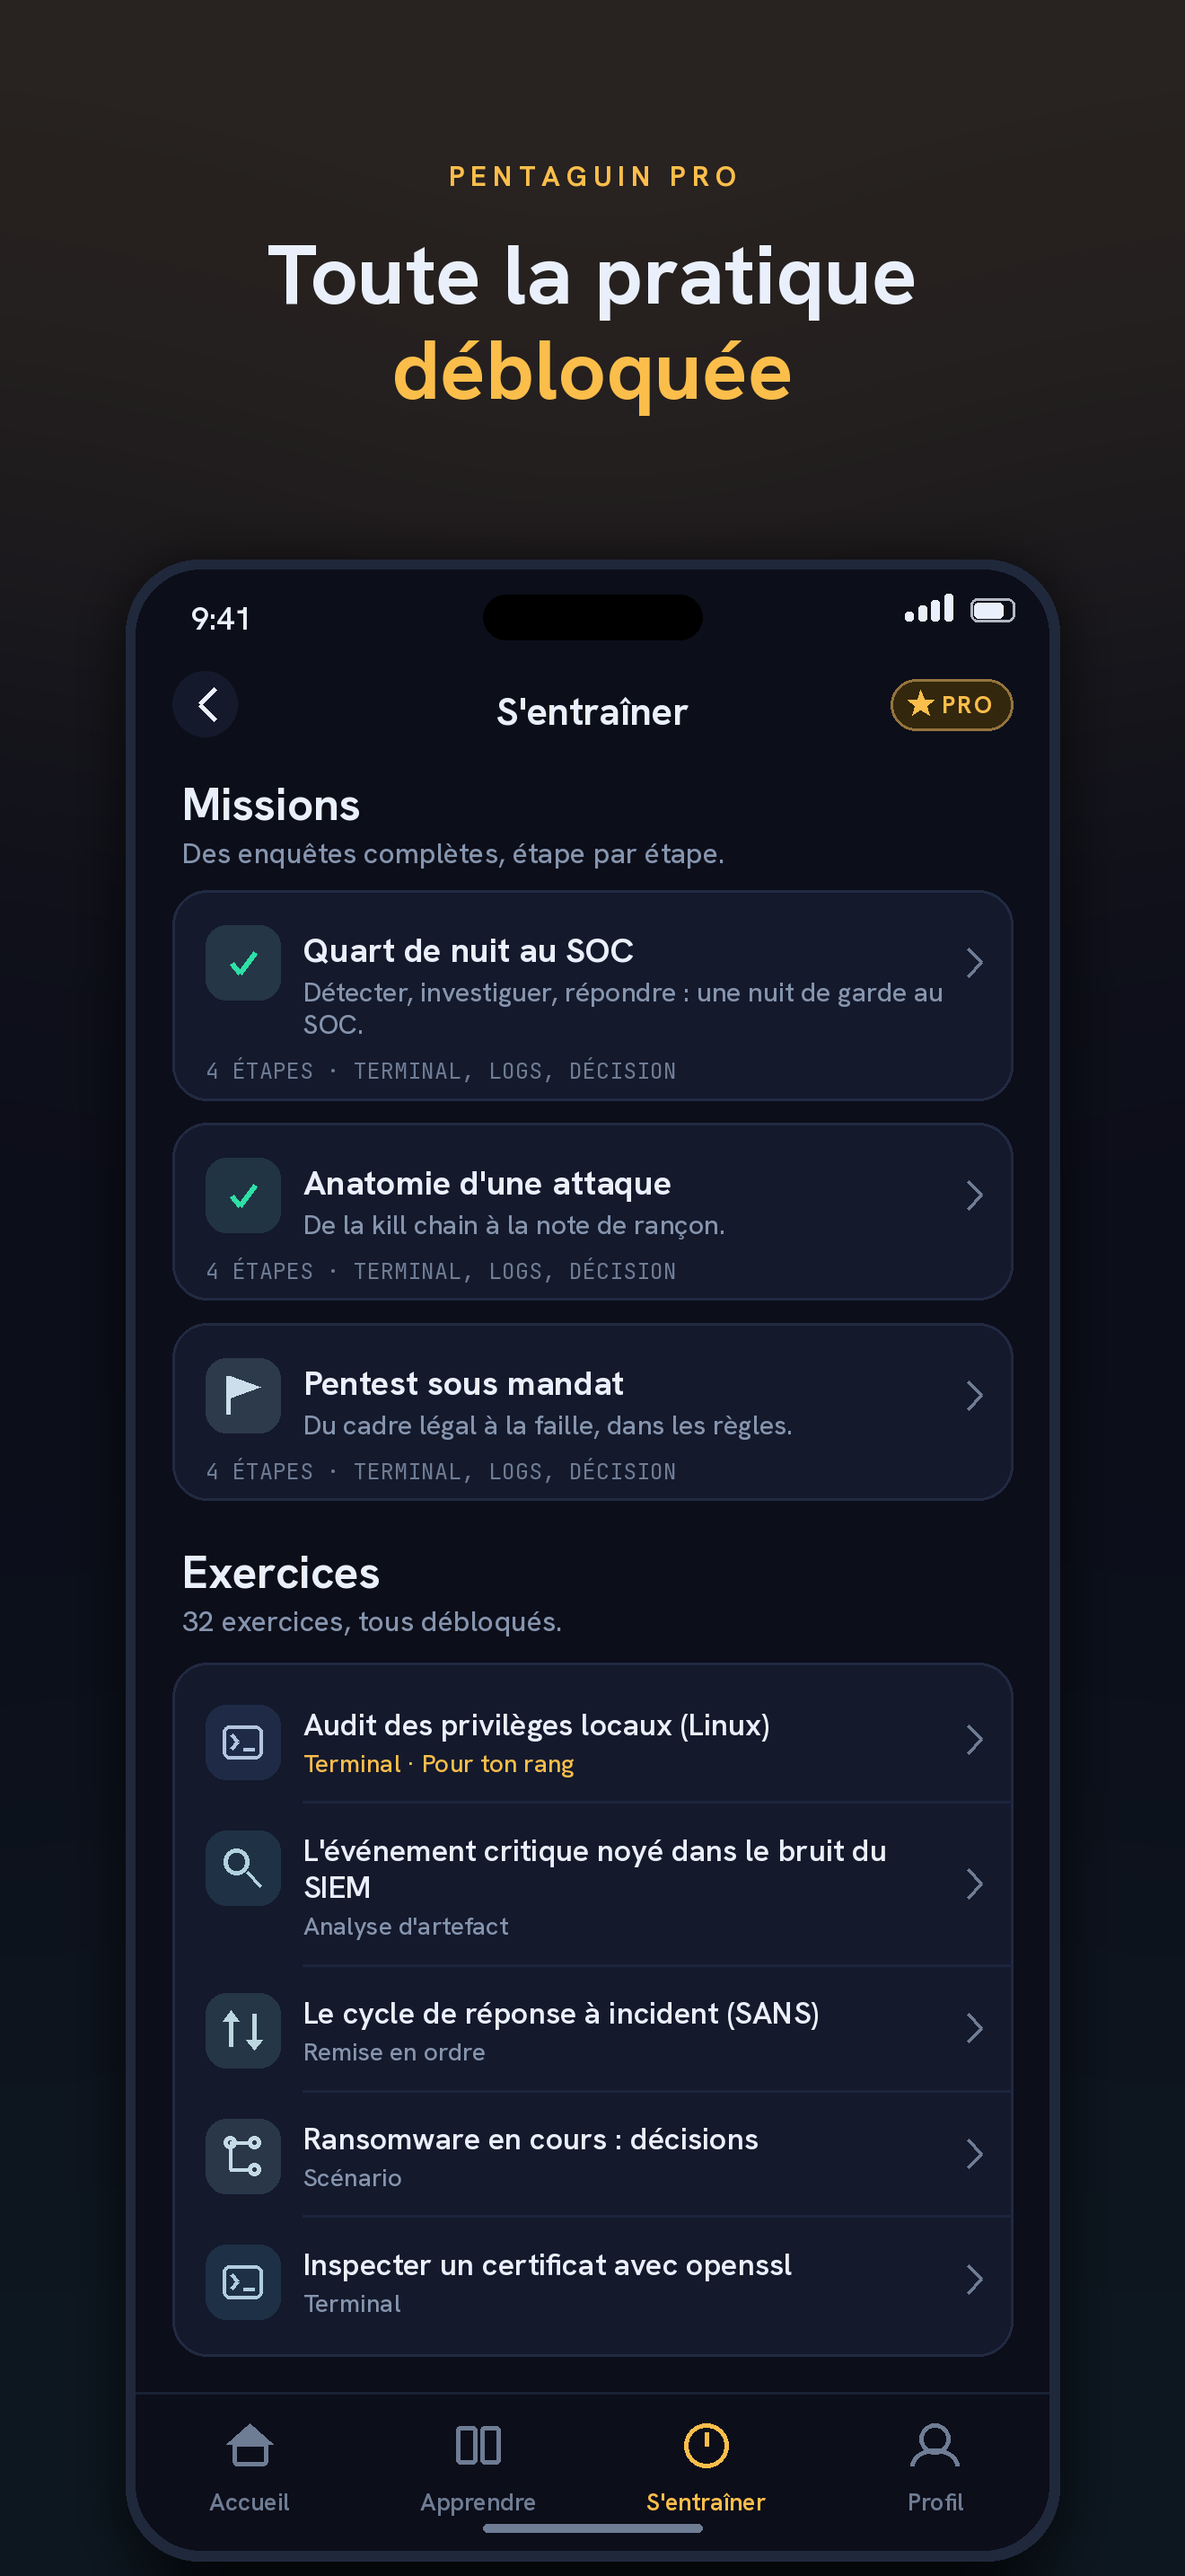
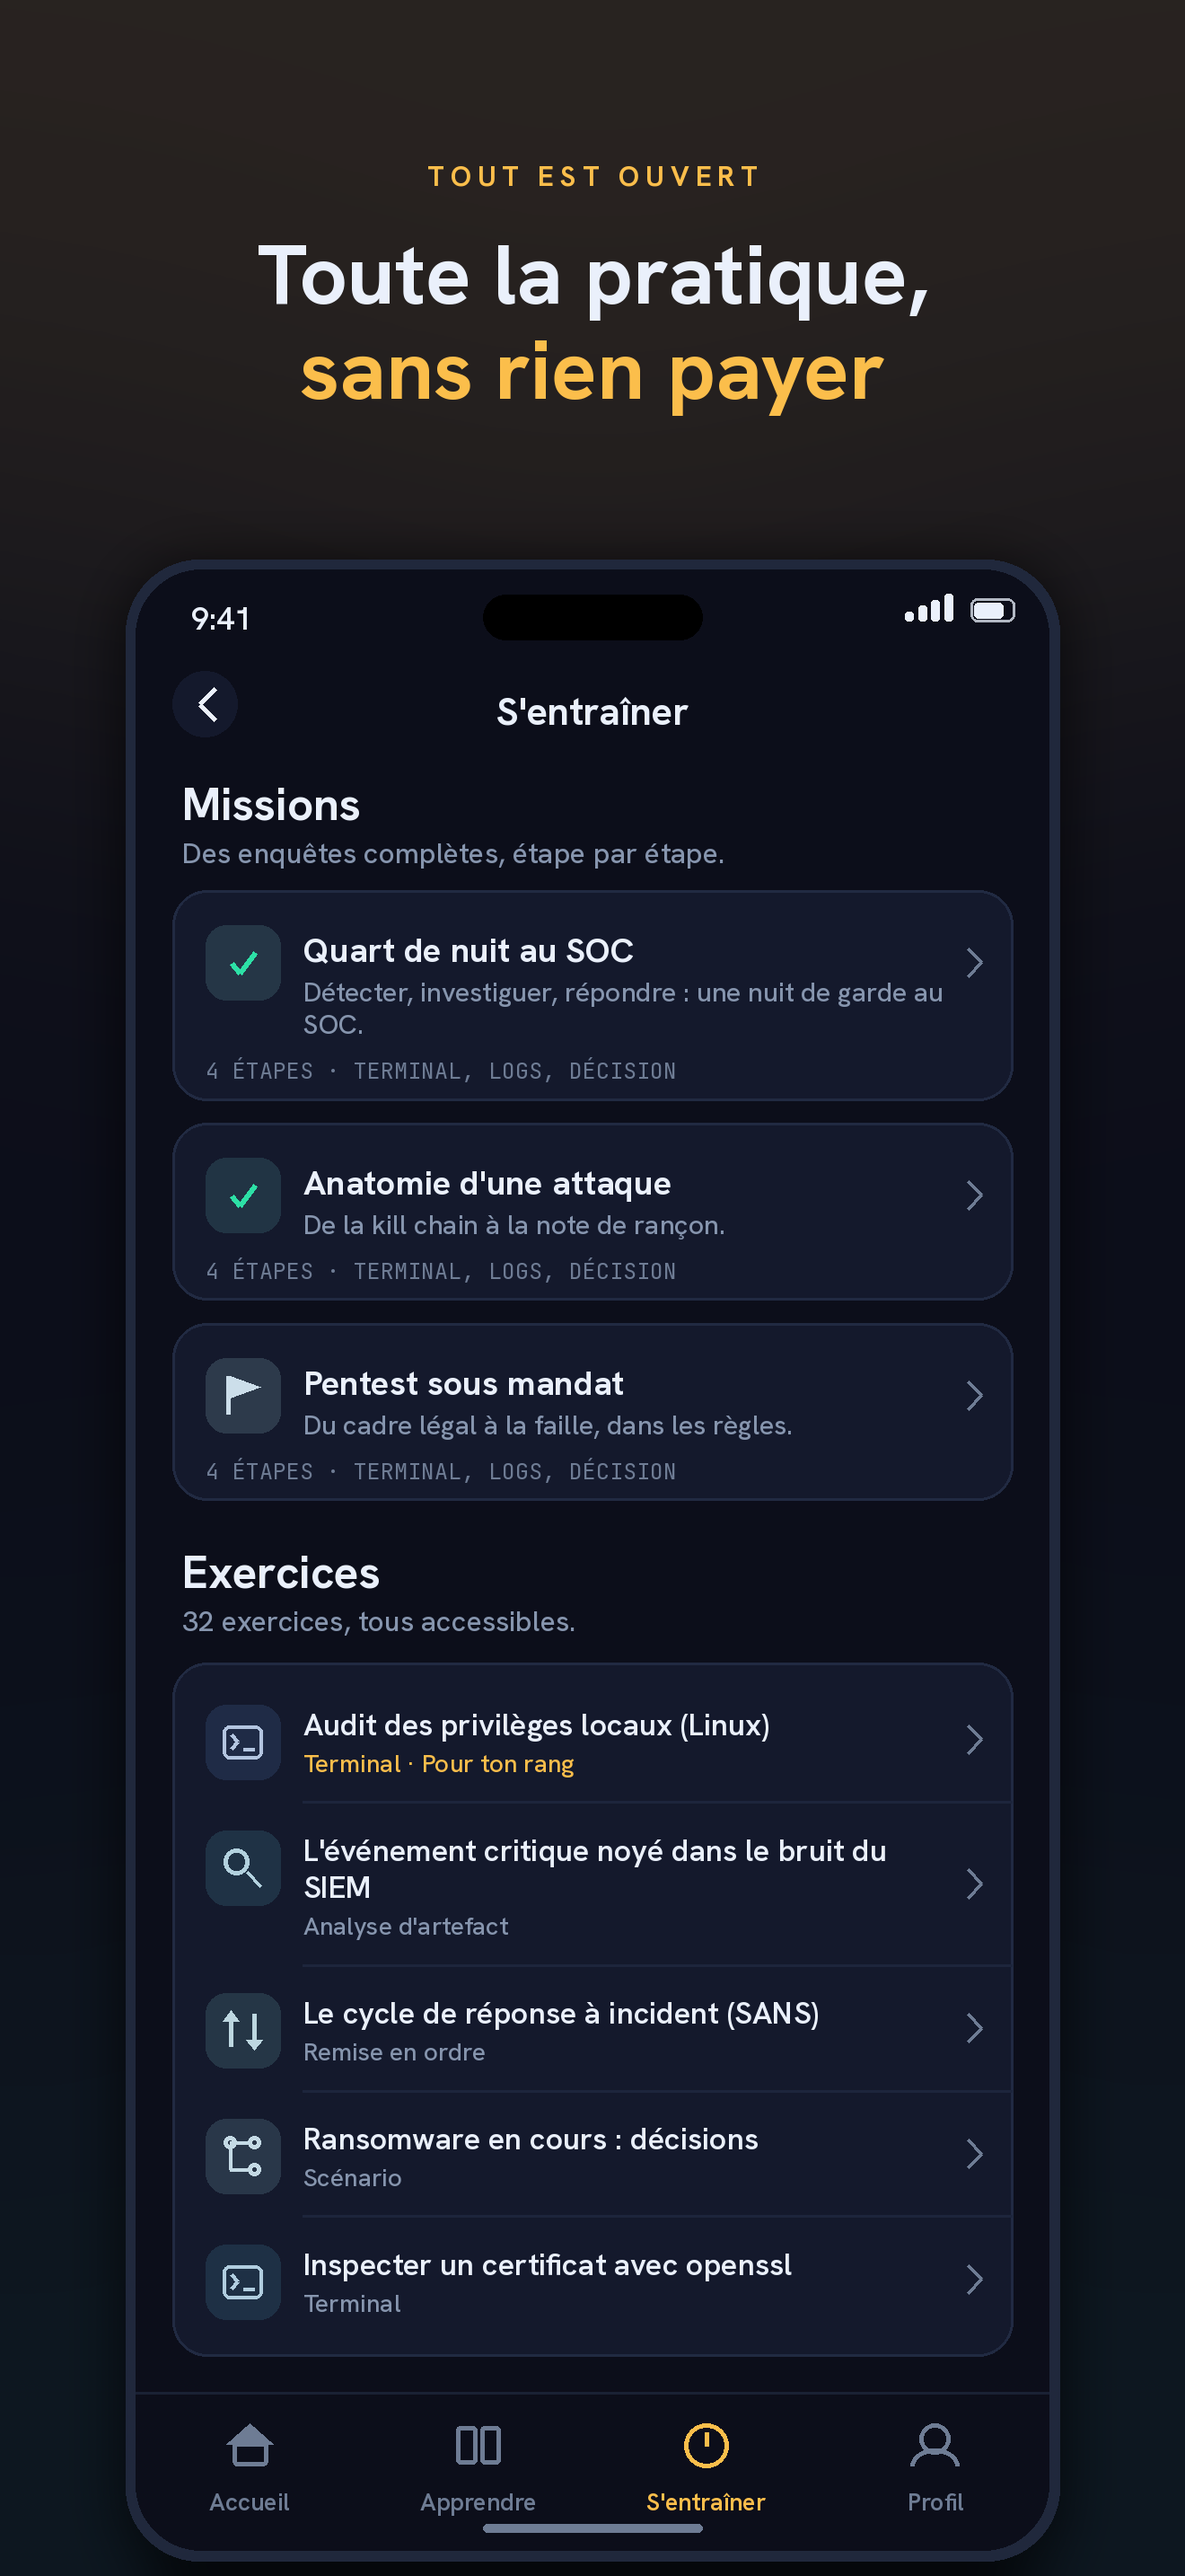
Captures : la vitrine de la pratique ne parle plus d'abonnement
L'app sortant gratuite, une capture titrée « Pentaguin Pro » avec un badge Pro
dans la barre de navigation aurait annoncé un achat intégré qui n'existe pas
(guideline 2.3.3). Elle devient « Tout est ouvert, toute la pratique sans rien
payer », sans badge, et la liste dit « tous accessibles » au lieu de
« tous débloqués ».

Changed region(s): [[0.2174, 0.0621, 0.7765, 0.1552], [0.7455, 0.2483, 0.8697, 0.3103], [0.3727, 0.6206, 0.4659, 0.6517]]

diff --git a/docs/screenshots/appstore/generate.py b/docs/screenshots/appstore/generate.py
@@ -304,7 +304,7 @@ def s_home(pen):
 
 # ============================ 2. S'ENTRAÎNER ================================
 def s_practice(pen):
-    statusbar(pen); navbar(pen, "S'entraîner", pro=True)
+    statusbar(pen); navbar(pen, "S'entraîner")
     pen.text((20, 88), "Missions", "bold", 19.5, hx("txt"))
     pen.text((20, 114), "Des enquêtes complètes, étape par étape.", "med", 12.5, hx("dim"))
     missions = [("Quart de nuit au SOC", "Détecter, investiguer, répondre : une nuit de garde au SOC.", 5, True),
@@ -328,7 +328,7 @@ def s_practice(pen):
 
     y += 8
     pen.text((20, y), "Exercices", "bold", 19.5, hx("txt"))
-    pen.text((20, y + 26), "32 exercices, tous débloqués.", "med", 12.5, hx("dim"))
+    pen.text((20, y + 26), "32 exercices, tous accessibles.", "med", 12.5, hx("dim"))
     y += 52
     exos = [("Audit des privilèges locaux (Linux)", "Terminal · Pour ton rang", 0, "term", True),
             ("L'événement critique noyé dans le bruit du SIEM", "Analyse d'artefact", 3, "anal", False),
@@ -713,7 +713,7 @@ SHOTS = [
     (s_lesson, "LEÇONS INTERACTIVES", "Tu *paries*\navant d'apprendre", "02-lecon"),
     (s_terminal, "PRATIQUE EN SITUATION", "Un vrai terminal,\n*sans le clavier*", "03-terminal"),
     (s_quickcheck, "COMPRENDRE, PAS BACHOTER", "Chaque réponse\n*est expliquée*", "04-quiz"),
-    (s_practice, "PENTAGUIN PRO", "Toute la pratique\n*débloquée*", "05-pratique"),
+    (s_practice, "TOUT EST OUVERT", "Toute la pratique,\n*sans rien payer*", "05-pratique"),
     (s_rank, "PROGRESSION", "15 rangs\nà *gravir*", "06-rang"),
 ]
 for w, h, suffix in SIZES:
